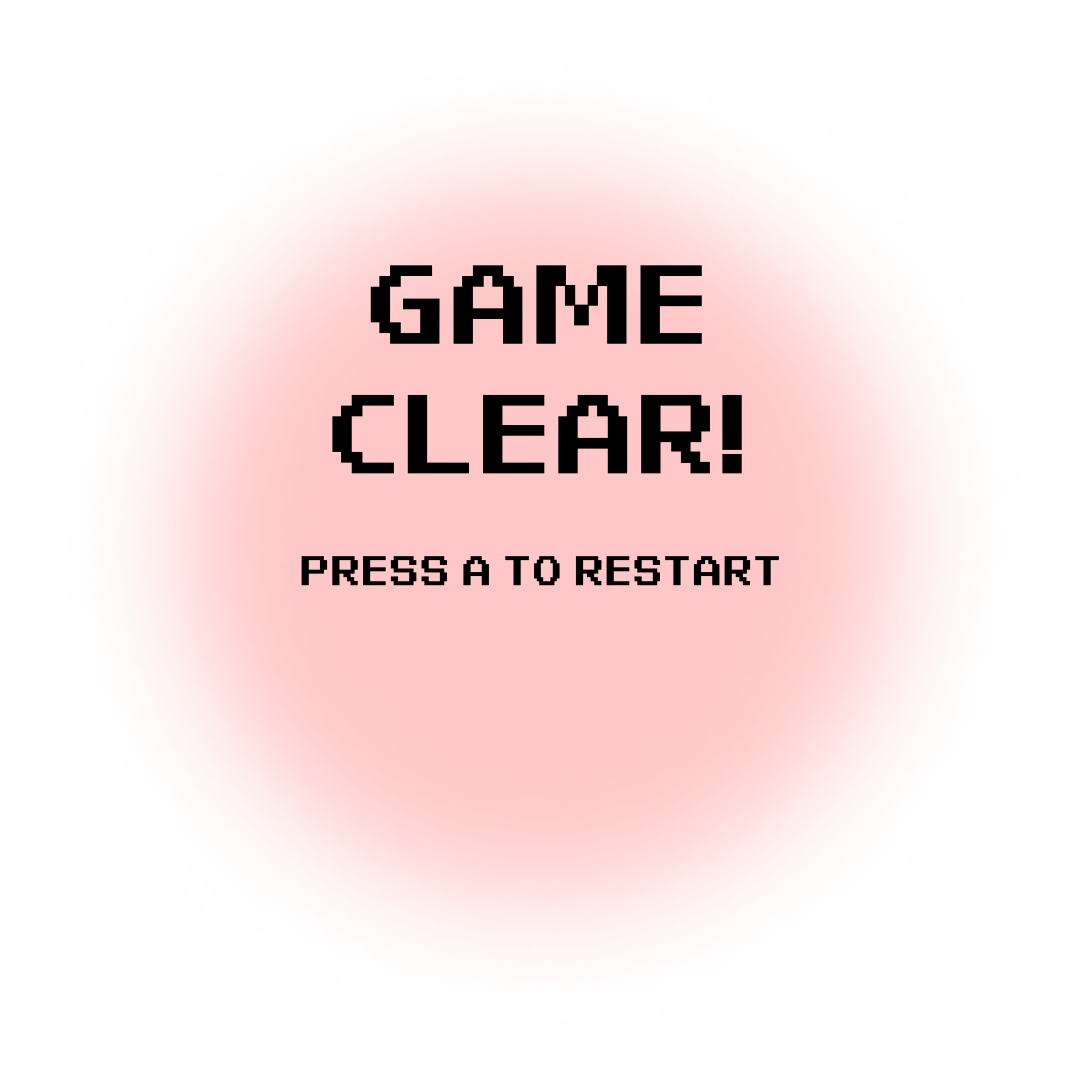
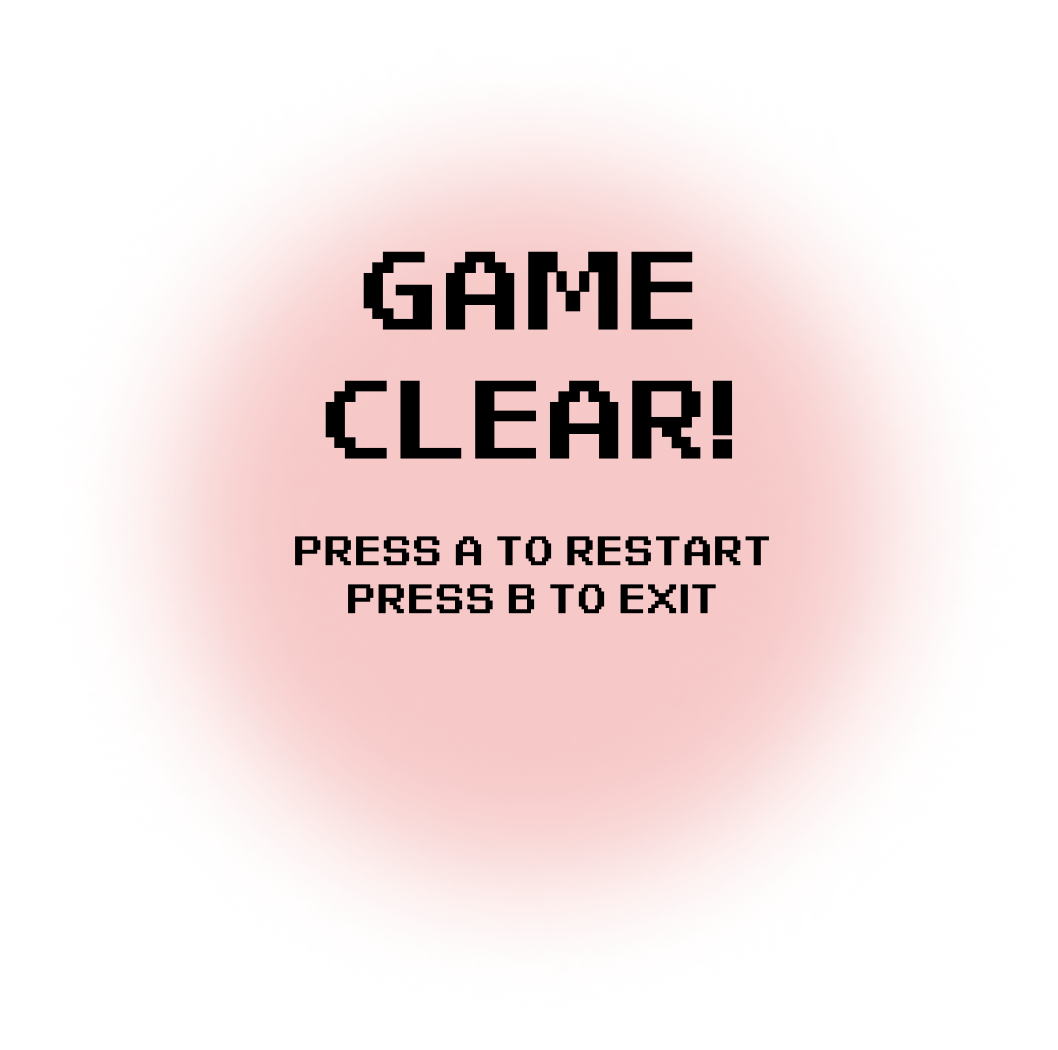
Feat: exit

Changed region(s): [[0.3119, 0.2133, 0.7174, 0.4571], [0.2807, 0.4876, 0.7174, 0.6095]]

diff --git a/src/main.py b/src/main.py
@@ -287,27 +287,30 @@ def main(disp, width, height, character):
                 if not button_A.value:
                     result = attack(disp, width, height, character, character_size, ground)
                     if result in ["clear", "over"]:
-                        if game_end(disp, width, height, result):
+                        game_result = game_end(disp, width, height, result)
+                        if game_result == "restart":
+                            return "restart"
+                        elif game_result == "continue":
                             continue  # 메인으로 돌아가기
-                        else:
-                            return
             else:
                 image.paste(new_mission_image, (0, 0), mask=mission_image)
 
                 if not button_A.value:
                     result = weedCleanup(disp, width, height, character)
                     if result in ["clear", "over"]:
-                        if game_end(disp, width, height, result):
+                        game_result = game_end(disp, width, height, result)
+                        if game_result == "restart":
+                            return "restart"
+                        elif game_result == "continue":
                             continue  # 메인으로 돌아가기
-                        else: 
-                            return
                 elif not button_B.value:
                     result = attack(disp, width, height, character, character_size, ground)
                     if result in ["clear", "over"]:
-                        if game_end(disp, width, height, result):
+                        game_result = game_end(disp, width, height, result)
+                        if game_result == "restart":
+                            return "restart"
+                        elif game_result == "continue":
                             continue  # 메인으로 돌아가기
-                        else:  
-                            return
                     
         disp.image(image)
 
@@ -436,7 +439,7 @@ def attack(disp, width, height, character, character_size, ground):
         # 공격 및 방패 처리
         if character.is_attacking:
             character.attack_x += 15  # 공격 이미지가 왼쪽으로 이동
-            if character.attack_x > monster.x - monster.size[0]:  # `monster` 위치에 도달하면 멈춤
+            if character.attack_x > monster.x - monster.size[0] + 20:  # `monster` 위치에 도달하면 멈춤
                 monster.hp -= character.attack_damage
                 character.is_attacking = False
                 character.gain_experience(20)  # 경험치 획득
@@ -524,7 +527,13 @@ def game_end(disp, width, height, status):
 
     while True:
         if not button_A.value:
-            return status == "clear"
+            if status == "clear":
+                return "continue"
+            else:
+                return "restart"
+        elif not button_B.value:
+            save_record(character.level)  # 레벨 저장
+            game_exit(disp, width, height)  # 프로그램 종료
         time.sleep(0.1)
 
 def weedCleanup(disp, width, height, character):
@@ -636,6 +645,13 @@ def weedCleanup(disp, width, height, character):
             time.sleep(0.2)  # 200ms 지연 시간 추가
             character.x = 0  # 캐릭터 위치 초기화
 
+def game_exit(disp, width, height):
+    image = Image.open("../assets/game_end.png").convert("RGBA").resize((width, height))
+    disp.image(image)
+
+    exit()  # 프로그램 종료
+    time.sleep(0.1)
+
 # 디스플레이 설정
 cs_pin = DigitalInOut(board.CE0)
 dc_pin = DigitalInOut(board.D25)
@@ -701,12 +717,12 @@ draw = ImageDraw.Draw(image)
 
 # 메인 실행
 if __name__ == "__main__":
-    draw_start_screen(disp, width, height)
     while True:
+        draw_start_screen(disp, width, height)
         if not button_A.value:
             draw_tutorial_screen(disp, width, height)
             character = character_select(disp, width, height)
             result = main(disp, width, height, character)
-            if result == "over":
-                continue  # 캐릭터 선택부터 다시 시작
+            if result == "restart":
+                continue  # 게임 처음부터 다시 시작
         time.sleep(0.1)
